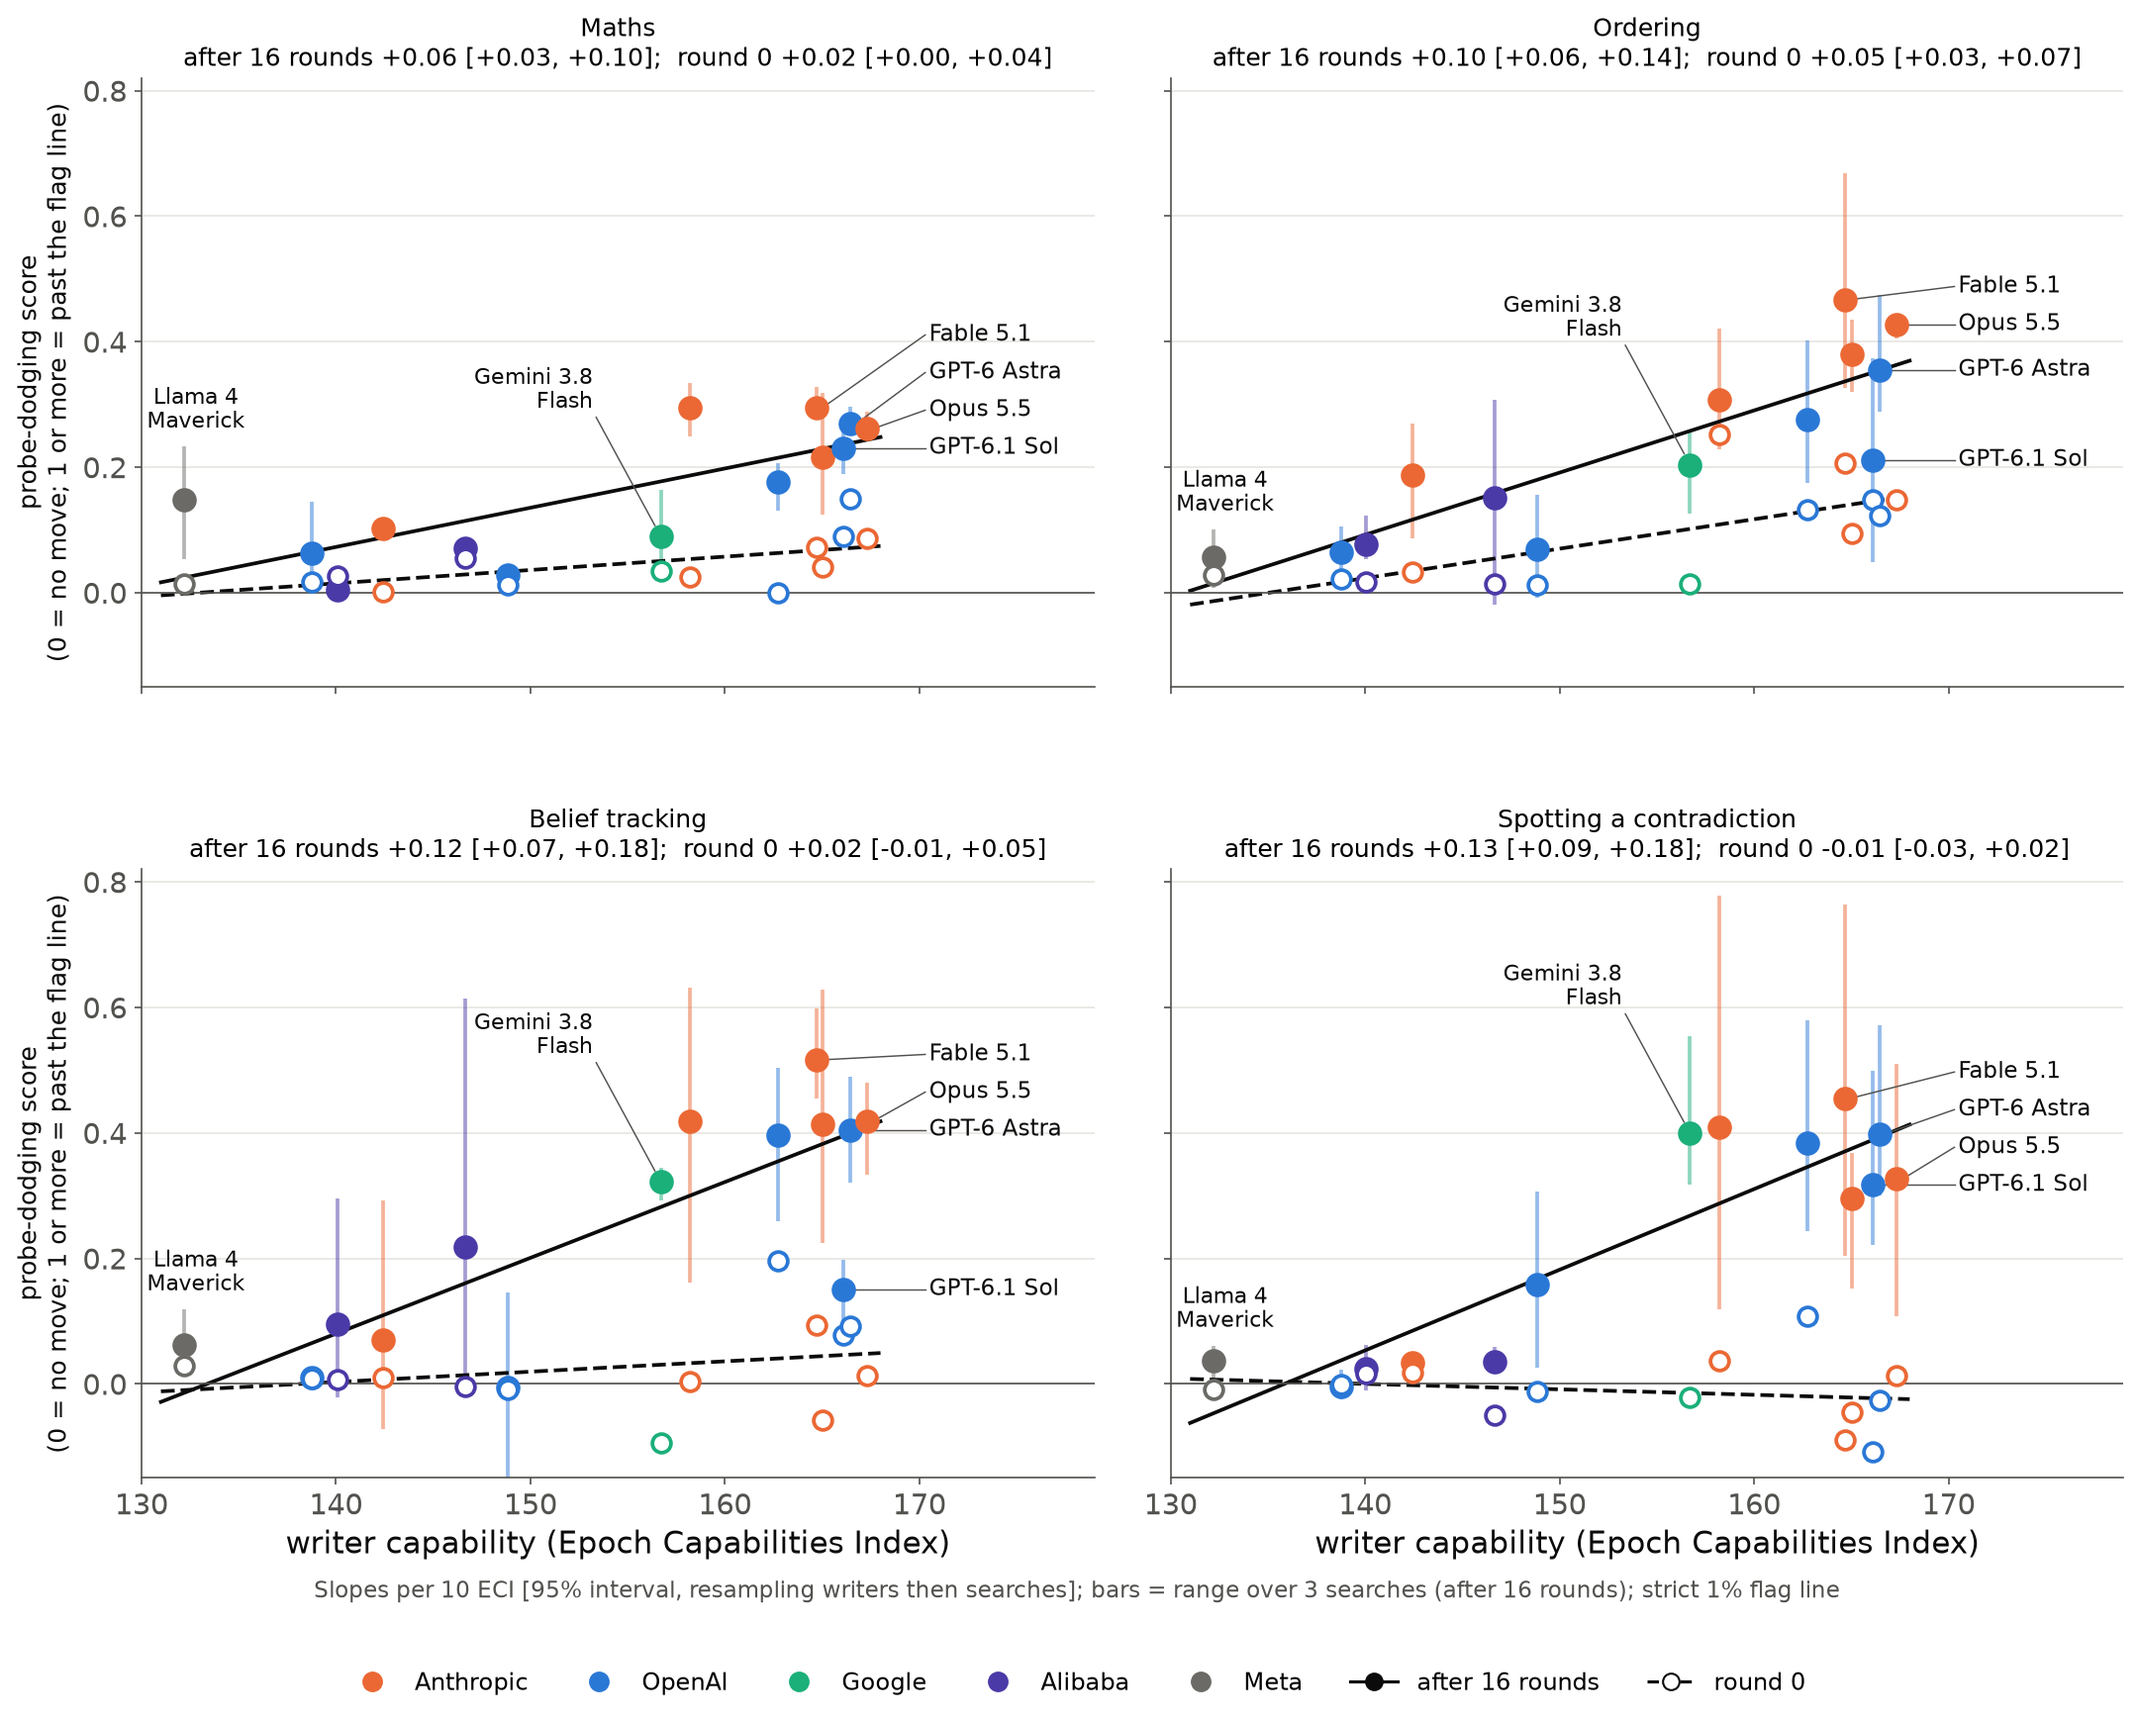
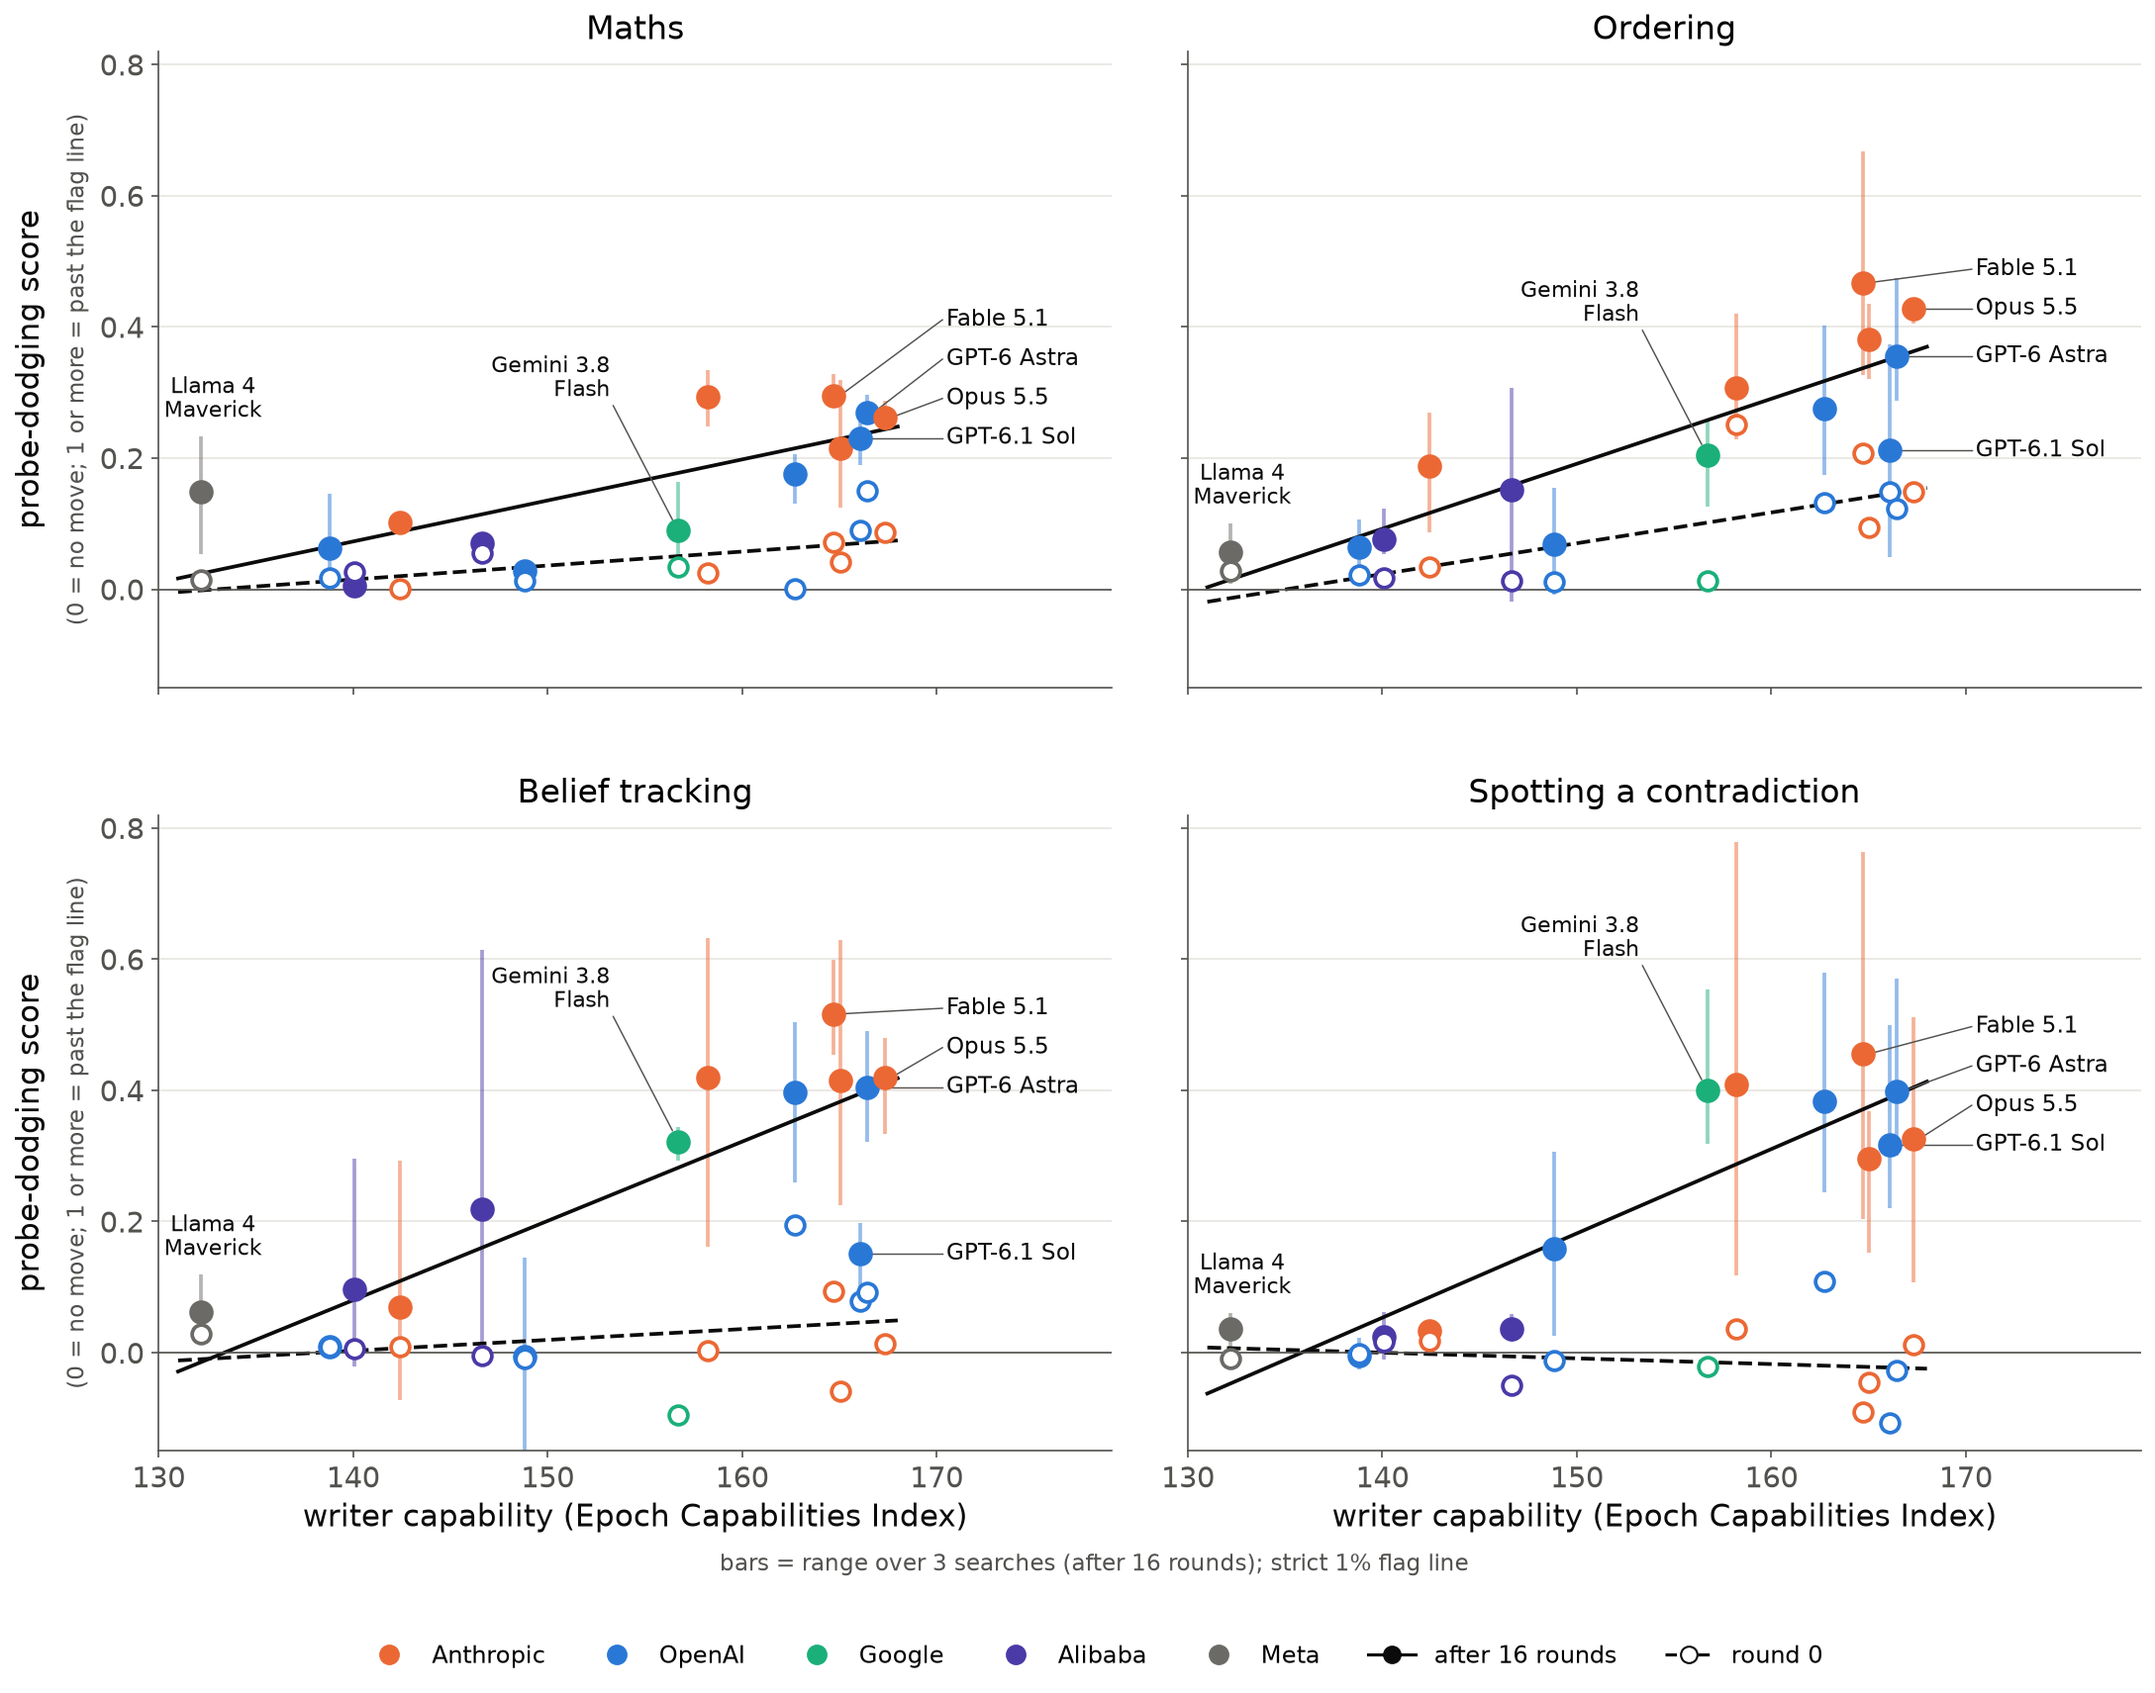
Post v9 2x2s: bigger panel titles and y label; slopes out of the combined figure (to the caption)

diff --git a/analysis/post_v9/fig_2x2.py b/analysis/post_v9/fig_2x2.py
@@ -38,7 +38,8 @@ GEMINI_LABEL_OFFSET = (-3.5, 0.2)  # (ECI units, score units) from the dot to th
 LABEL_X = 170.5        # labels sit in a column right of the data, with leader lines to their dots
 LABEL_GAP = 0.06       # minimum vertical gap between labels (score units)
 Y_LIMITS = (-0.15, 0.82)
-Y_LABEL = "probe-dodging score\n(0 = no move; 1 or more = past the flag line)"
+Y_LABEL = "probe-dodging score"
+Y_LABEL_NOTE = "(0 = no move; 1 or more = past the flag line)"  # smaller, beside the main label
 EXAMPLE_TASK = "ordering"  # the worked example: Fable 5.1 (make_dots' writer for ordering), medians over correct pairs
 EXAMPLE_COLOURS = {"plain": "#3b4440", "off": "#3d5a80", "on": "#c2541b", "line": "#b3261e"}
 
@@ -93,7 +94,7 @@ def panel(ax, task: str, title: str, rounds: tuple[str, ...], meta: dict) -> Non
     plot_round(ax, data[rounds[0]], meta, hollow=False, bars=True, fit_style="-")
     if len(rounds) == 2:
         plot_round(ax, data[rounds[1]], meta, hollow=True, bars=False, fit_style="--")
-        ax.set_title(f"{title}\nafter 16 rounds {fmt(data['B16']['all14'])};  round 0 {fmt(data['B0']['all14'])}", fontsize=12)
+        ax.set_title(title, fontsize=16)  # slopes go in the caption
     else:
         ax.set_title(f"{title}: {fmt(data[rounds[0]]['all14'])}", fontsize=13)
     label_writers(ax, data[rounds[0]]["writer_means"], data[rounds[0]]["writer_chains"], meta)
@@ -141,13 +142,15 @@ def how_to_read() -> None:
 
 def figure(rounds: tuple[str, ...], meta: dict, name: str, suptitle: str | None = None) -> None:
     fig, axes = plt.subplots(2, 2, figsize=(15, 11.5 if len(rounds) == 2 else 11), sharex=True, sharey=True,
-                             gridspec_kw={"hspace": 0.3 if len(rounds) == 2 else 0.2, "wspace": 0.08})
+                             gridspec_kw={"hspace": 0.2, "wspace": 0.08})
     for ax, (task, title) in zip(axes.flat, PANELS.items()):
         panel(ax, task, title, rounds, meta)
     for ax in axes[-1]:
         ax.set_xlabel("writer capability (Epoch Capabilities Index)")
     for ax in axes[:, 0]:
-        ax.set_ylabel(Y_LABEL, fontsize=12)
+        ax.set_ylabel(Y_LABEL, fontsize=15, labelpad=26)
+        ax.text(-0.085, 0.5, Y_LABEL_NOTE, transform=ax.transAxes, rotation=90, ha="center", va="center", fontsize=11,
+                color=F.v6.MUTED)
     if suptitle:
         fig.suptitle(suptitle, fontsize=15, x=0.02, ha="left")
     handles = [Line2D([], [], marker="o", ls="", ms=9, color=c, label=lab) for lab, c in F.LAB_COLOUR.items()]
@@ -158,7 +161,8 @@ def figure(rounds: tuple[str, ...], meta: dict, name: str, suptitle: str | None 
         handles.append(Line2D([], [], color=F.v6.TEXT, ls="-", label="least-squares fit"))
     fig.legend(handles=handles, loc="lower center", ncol=len(handles), frameon=False, fontsize=11.5, bbox_to_anchor=(0.5, -0.01))
     bars = "bars = range over 3 searches (after 16 rounds)" if len(rounds) == 2 else "bars = range over 3 searches"
-    fig.text(0.5, 0.06, f"Slopes per 10 ECI [95% interval, resampling writers then searches]; {bars}; strict 1% flag line",
+    slopes = "" if len(rounds) == 2 else "Slopes per 10 ECI [95% interval, resampling writers then searches]; "
+    fig.text(0.5, 0.06, f"{slopes}{bars}; strict 1% flag line",
              ha="center", fontsize=11, color=F.v6.MUTED)
     fig.subplots_adjust(left=0.08, right=0.97, top=0.9 if suptitle else 0.95, bottom=0.13)
     fig.savefig(HERE / "figures" / name, bbox_inches="tight")
